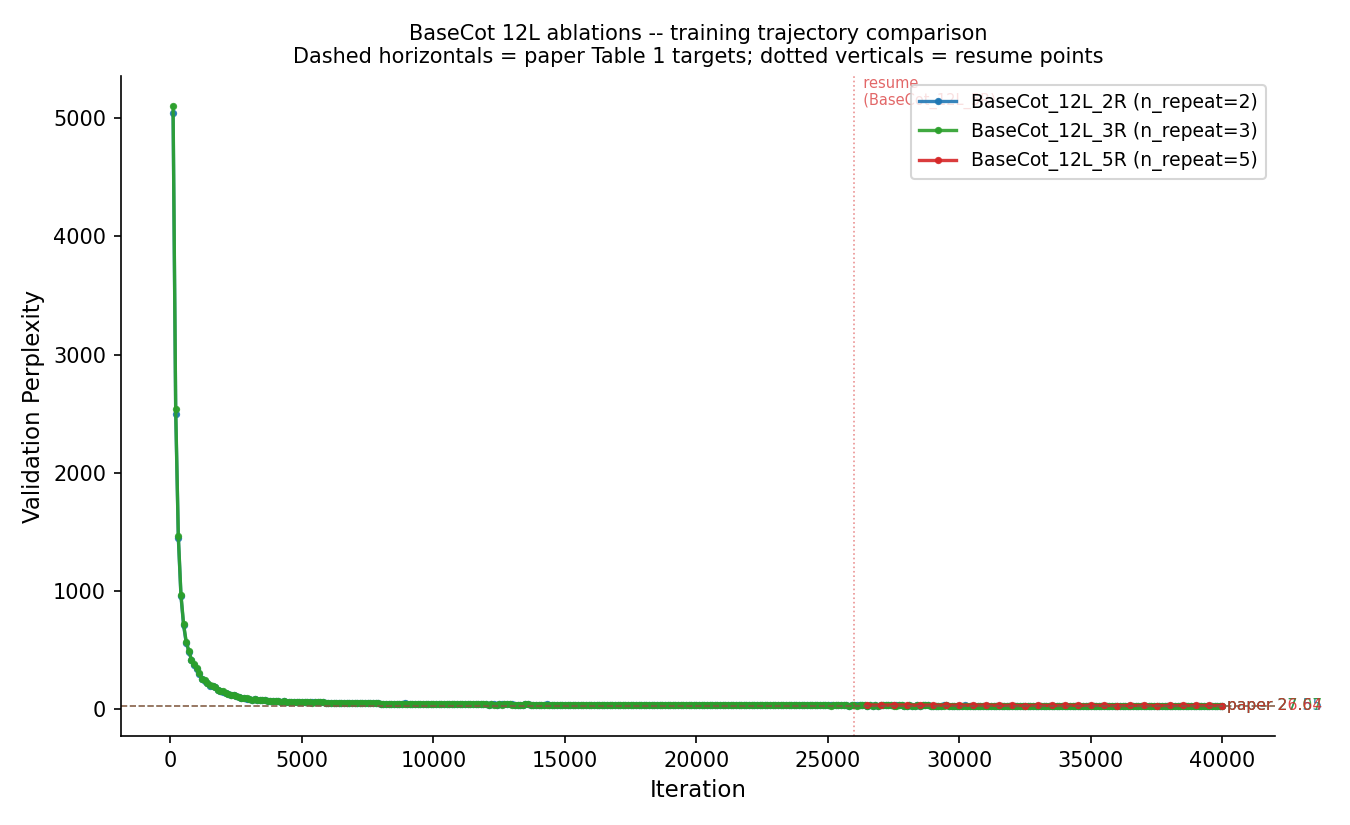
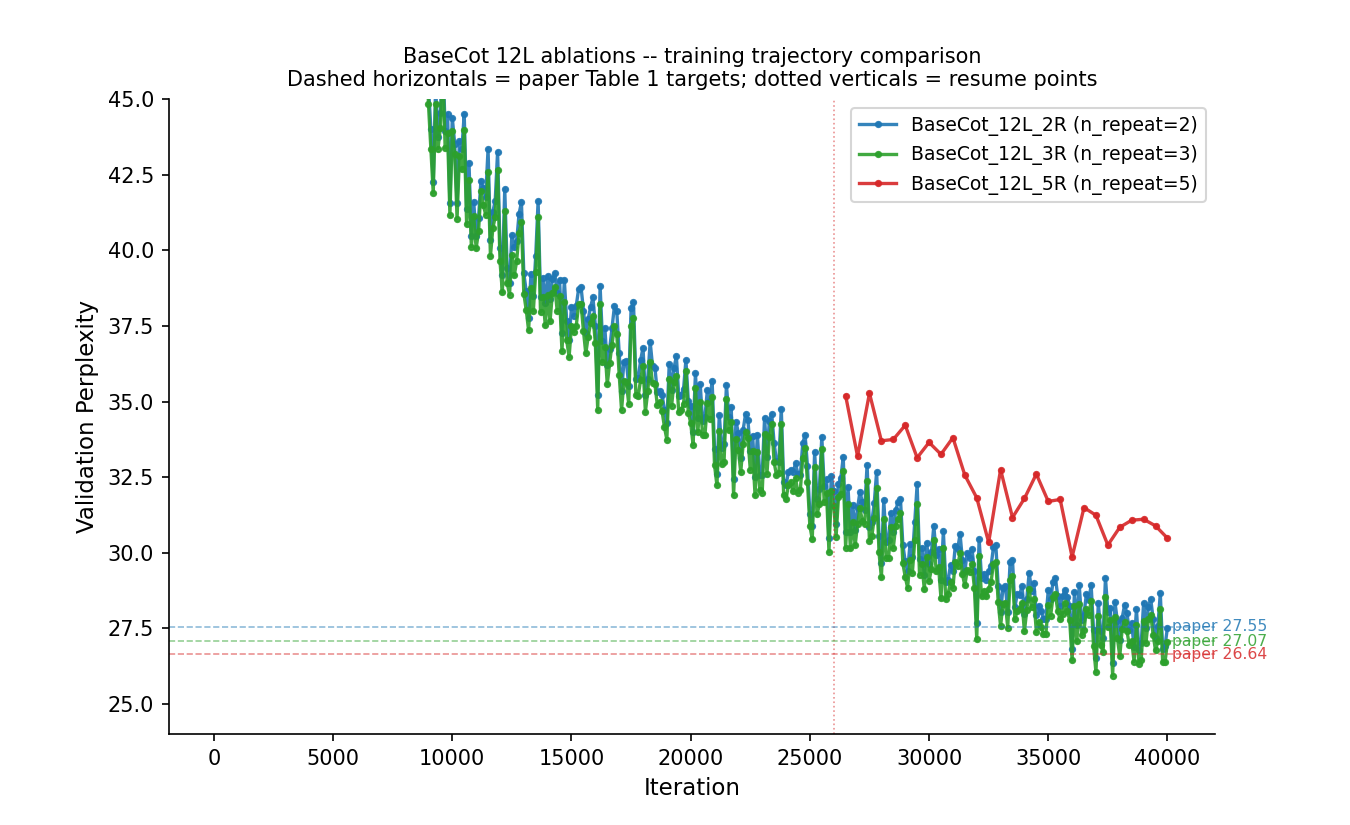
more analysis on diagnostics

diff --git a/iridis/base-cots-eval/diag/diag_d_phase1_trajectory.py b/iridis/base-cots-eval/diag/diag_d_phase1_trajectory.py
@@ -1,0 +1,239 @@
+#!/usr/bin/env python3
+"""Diag D -- Phase-1 trajectory reconstruction via intermediate ckpt eval.
+
+The training-time val_pp[] array in summary.json is reset to empty whenever
+training resumes (optim/base.py:46 reinitialises stats). For ablations trained
+in two phases (e.g. BaseCot_12L_5R: Phase 1 iter 0->26000, Phase 2 iter
+26000->40000), this means the Phase 1 trajectory is LOST from summary.json --
+the only data point we have post-Phase-1 is the model state captured in
+ckpt_26000.pt.
+
+This script reconstructs the missing trajectory by loading each ckpt_<N>.pt
+file in the ablation directory and running a quick val-PPL probe identical
+in protocol to Diag B (load via eval.py's filter, sample N batches).
+Outputs a table of (iter, val_pp) per ablation, which can be plotted
+alongside the surviving summary.json trajectory to see the full picture.
+
+Run from the repo root (~/CoTFormer/) so model/config imports resolve. GPU
+required. The default loops over 3 ablations x 6 milestones = 18 evals,
+~30 sec each = ~10 min wall on L4.
+
+Usage:
+    cd ~/CoTFormer
+    sbatch iridis/base-cots-eval/diag/diag_d_job.sh
+    # OR interactively on a compute node:
+    python iridis/base-cots-eval/diag/diag_d_phase1_trajectory.py
+"""
+
+import argparse
+import json
+import math
+import os
+import re
+import sys
+
+
+def parse_use_pretrained_offset(s) -> int:
+    if not isinstance(s, str) or not s or s == "auto":
+        return 0
+    m = re.search(r"ckpt_(\d+)", s)
+    return int(m.group(1)) if m else 0
+
+
+def main() -> None:
+    parser = argparse.ArgumentParser(
+        description="Reconstruct Phase-1 val_pp trajectory by evaluating "
+                    "intermediate checkpoints.",
+        allow_abbrev=False,
+    )
+    parser.add_argument(
+        "--ckpt-root",
+        default="/scratch/ab3u21/exps/owt2/cotformer_full_depth",
+    )
+    parser.add_argument(
+        "--ablations",
+        nargs="+",
+        default=["BaseCot_12L_2R", "BaseCot_12L_3R", "BaseCot_12L_5R"],
+        help="Ablations to reconstruct (default: 3 sibling 12L variants).",
+    )
+    parser.add_argument(
+        "--milestones",
+        nargs="+",
+        type=int,
+        default=[5000, 10000, 15000, 20000, 25000, 26000, 30000, 35000, 40000],
+        help="Iter milestones to eval (script picks the nearest existing "
+             "ckpt_<N>.pt for each).",
+    )
+    parser.add_argument(
+        "--data-dir",
+        default="/scratch/ab3u21/datasets",
+        help="Override summary['args']['data_dir'] at eval time.",
+    )
+    parser.add_argument(
+        "--n-batches",
+        type=int,
+        default=50,
+        help="Val batches per probe. Higher = lower noise. 50 ~ 410k tokens.",
+    )
+    parser.add_argument(
+        "--batch-size",
+        type=int,
+        default=8,
+        help="Batch size per probe (fits any L4/A100).",
+    )
+    parser.add_argument(
+        "--output-csv",
+        default=None,
+        help="Optional CSV output path. Default: stdout table only.",
+    )
+    args = parser.parse_args()
+
+    # Repo root on sys.path BEFORE project imports (login-node-safe).
+    repo_root = os.path.abspath(os.path.join(os.path.dirname(__file__), "..", "..", ".."))
+    if repo_root not in sys.path:
+        sys.path.insert(0, repo_root)
+
+    import numpy as np
+    import torch
+    import models
+
+    if not torch.cuda.is_available():
+        sys.exit("ERROR: CUDA required. Run via diag_d_job.sh on a GPU node.")
+
+    # Memmap val tokens once -- shared across all probes (read-only).
+    val_bin = os.path.join(args.data_dir, "openwebtext2", "val.bin")
+    if not os.path.isfile(val_bin):
+        sys.exit(f"ERROR: missing {val_bin}")
+    val = np.memmap(val_bin, dtype=np.uint16, mode="r")
+
+    # Deterministic sample positions (same across all probes for fair compare).
+    seq_len_default = 256
+    rng = np.random.default_rng(0)
+    max_start = len(val) - (seq_len_default + 1) * args.batch_size * args.n_batches
+    sample_starts = sorted(rng.integers(0, max_start,
+                                         size=args.n_batches * args.batch_size).tolist())
+
+    def probe_ckpt(ckpt_dir: str, ckpt_filename: str) -> float:
+        """Run a quick PPL probe on a specific ckpt file. Returns PPL."""
+        summary_path = os.path.join(ckpt_dir, "summary.json")
+        with open(summary_path) as f:
+            summary = json.load(f)
+        ns = argparse.Namespace(**summary["args"])
+        ns.data_dir = args.data_dir
+        ns.device = torch.device("cuda")
+        ns.dtype = torch.bfloat16
+        ns.distributed_backend = None
+
+        ckpt = torch.load(
+            os.path.join(ckpt_dir, ckpt_filename),
+            map_location="cpu",
+            weights_only=False,
+        )
+        weights = {k.replace("_orig_mod.", ""): v
+                   for k, v in ckpt["model"].items()
+                   if "attn.bias" not in k and "wpe" not in k}
+
+        model = models.make_model_from_args(ns).to("cuda").eval()
+        model.load_state_dict(weights, strict=False)
+
+        seq_len = ns.sequence_length
+        losses = []
+        with torch.no_grad():
+            for batch_idx in range(args.n_batches):
+                xs, ys = [], []
+                for j in range(args.batch_size):
+                    s = sample_starts[batch_idx * args.batch_size + j]
+                    chunk = torch.from_numpy(val[s:s + seq_len + 1].astype(np.int64))
+                    xs.append(chunk[:-1])
+                    ys.append(chunk[1:])
+                x = torch.stack(xs).to("cuda", non_blocking=True)
+                y = torch.stack(ys).to("cuda", non_blocking=True)
+                with torch.amp.autocast(device_type="cuda", dtype=torch.bfloat16):
+                    out = model(x, targets=y, get_logits=False)
+                key = "cross_entropy_loss" if "cross_entropy_loss" in out else "loss"
+                losses.append(out[key].item())
+
+        del model
+        torch.cuda.empty_cache()
+        return math.e ** (sum(losses) / len(losses))
+
+    def find_nearest_ckpt(ckpt_dir: str, target_iter: int) -> tuple[str, int]:
+        """Find the ckpt_<N>.pt file with N closest to target_iter."""
+        pattern = re.compile(r"^ckpt_(\d+)\.pt$")
+        candidates = []
+        for fn in os.listdir(ckpt_dir):
+            m = pattern.match(fn)
+            if m:
+                candidates.append((int(m.group(1)), fn))
+        if not candidates:
+            return ("", -1)
+        candidates.sort(key=lambda x: abs(x[0] - target_iter))
+        return (candidates[0][1], candidates[0][0])
+
+    # ---- Run the probe grid ----
+    results: list[dict] = []
+    print(f"Probing {len(args.ablations)} ablations x {len(args.milestones)} milestones")
+    print(f"Sample: {args.n_batches} batches x {args.batch_size} seq -> "
+          f"{args.n_batches * args.batch_size * seq_len_default:,} tokens per probe")
+    print()
+
+    for abl in args.ablations:
+        ckpt_dir = os.path.join(args.ckpt_root, abl)
+        if not os.path.isdir(ckpt_dir):
+            print(f"SKIP {abl}: directory not found")
+            continue
+        print(f"--- {abl} ---")
+        for target in args.milestones:
+            ckpt_filename, actual_iter = find_nearest_ckpt(ckpt_dir, target)
+            if actual_iter < 0 or abs(actual_iter - target) > 2000:
+                print(f"  iter ~{target}: no ckpt within +/-2000; skipping")
+                continue
+            try:
+                ppl = probe_ckpt(ckpt_dir, ckpt_filename)
+                print(f"  {ckpt_filename:<20s}  (iter {actual_iter:>5d}) -> PPL = {ppl:.3f}")
+                results.append({
+                    "ablation": abl,
+                    "target_iter": target,
+                    "actual_iter": actual_iter,
+                    "ckpt": ckpt_filename,
+                    "ppl": ppl,
+                })
+            except Exception as e:  # noqa: BLE001
+                print(f"  {ckpt_filename}: FAILED ({type(e).__name__}: {e})")
+        print()
+
+    # ---- Final table ----
+    print()
+    print("=" * 80)
+    print("PHASE-1 TRAJECTORY RECONSTRUCTION  (val PPL per iter milestone)")
+    print("=" * 80)
+    all_milestones = sorted({r["target_iter"] for r in results})
+    header = f"{'ABLATION':<22s} " + " ".join(f"{m:>8d}" for m in all_milestones)
+    print(header)
+    print("-" * len(header))
+    for abl in args.ablations:
+        row = f"{abl:<22s} "
+        for m in all_milestones:
+            match = next((r for r in results if r["ablation"] == abl and r["target_iter"] == m), None)
+            row += f"{match['ppl']:>8.2f} " if match else f"{'--':>8s} "
+        print(row)
+    print()
+    print("Interpretation guide:")
+    print("  - If 12L_5R sits 3+ PPL above 12L_2R/3R at ALL milestones:")
+    print("      => systematic Phase 1 degradation (config/env)")
+    print("  - If 12L_5R matches siblings until iter X, then jumps:")
+    print("      => pinpoint event at iter X (NaN spike / hw glitch)")
+    print("  - If 12L_5R matches siblings throughout (incl iter 25000-26000):")
+    print("      => save-side or resume-side issue at the iter 26000 boundary")
+
+    if args.output_csv:
+        with open(args.output_csv, "w") as f:
+            f.write("ablation,target_iter,actual_iter,ckpt,ppl\n")
+            for r in results:
+                f.write(f"{r['ablation']},{r['target_iter']},{r['actual_iter']},"
+                        f"{r['ckpt']},{r['ppl']:.4f}\n")
+        print(f"\nCSV written to: {args.output_csv}")
+
+
+if __name__ == "__main__":
+    main()